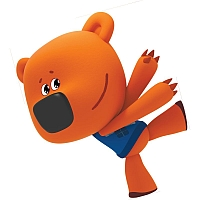
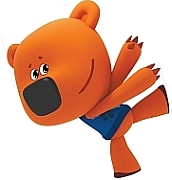
update

Changed region(s): [[0.0291, 0.0, 0.9884, 1.0], [0.4651, 0.3056, 0.5523, 0.5556]]

diff --git a/styles.css b/styles.css
@@ -9,17 +9,9 @@ body {
 .wrap {
     display:flex;
     flex-wrap: wrap;
-    
-    /* justify-content:space-around; */
-    /* overflow-x: visible; */
-    /* padding-top: 10px; */
     height: 480px;
     opacity: 0;
     
-    
-    
-    
- 
 }
 
 .ctrl__wrapper {
@@ -34,14 +26,12 @@ body {
     display: flex;
     width: max-content;
     padding-bottom: 3px;
-    /* justify-content: space-between;      */
-    /* margin-left: 5vw; */
-    
+     
  }
  
  .wrap-clean { 
     display: flex;
-    /* margin-left: 5vw; */
+   
     justify-content: center;
     
     padding: 5px;
@@ -54,32 +44,30 @@ body {
 
 .zipper {
     align-self: flex-start;
- 
     width:  180px;
-    height: 200px;
+    height: 180px;
     background-image: url("./zippenstein.jpg");
 }
 
-/* .zipper:hover{
+.img__content:hover{
     
-    transition: cubic-bezier(0.075, 0.82, 0.165, 1);
-} */
+    transform: rotate3d(0, 0, 1, 4deg);
+    transition: 0.5s;
+}
 
 .keshenator {
 
-    width:  180px;
-    height: 200px;
-    padding-left: -10px;
-    
-    
+    width:  178px;
+    height: 180px;
     background-image: url("./kesha.jpg");
+    /* background-image: url("./kesha.png"); */
+
     
 }
 
 .currentScreen {
     opacity: 1;
-       
-}
+  }
 
 button {
     margin-left: 5px;

diff --git a/script2.js b/script2.js
@@ -5,14 +5,14 @@ let pushKesh = document.querySelector('.btn__kesha');
 pushZippen.addEventListener('click', () => {
     wrap1.classList.add ('currentScreen');
     let zipp = document.createElement('div');
-    zipp.classList.add('zipper');
+    zipp.classList.add('zipper', 'img__content');
     wrap1.append(zipp);
 });
 
 pushKesh.addEventListener('click', () => {
     wrap1.classList.add ('currentScreen');
     let kesh = document.createElement('div');
-    kesh.classList.add('keshenator');
+    kesh.classList.add('keshenator', 'img__content');
     wrap1.append(kesh);
 });
 
